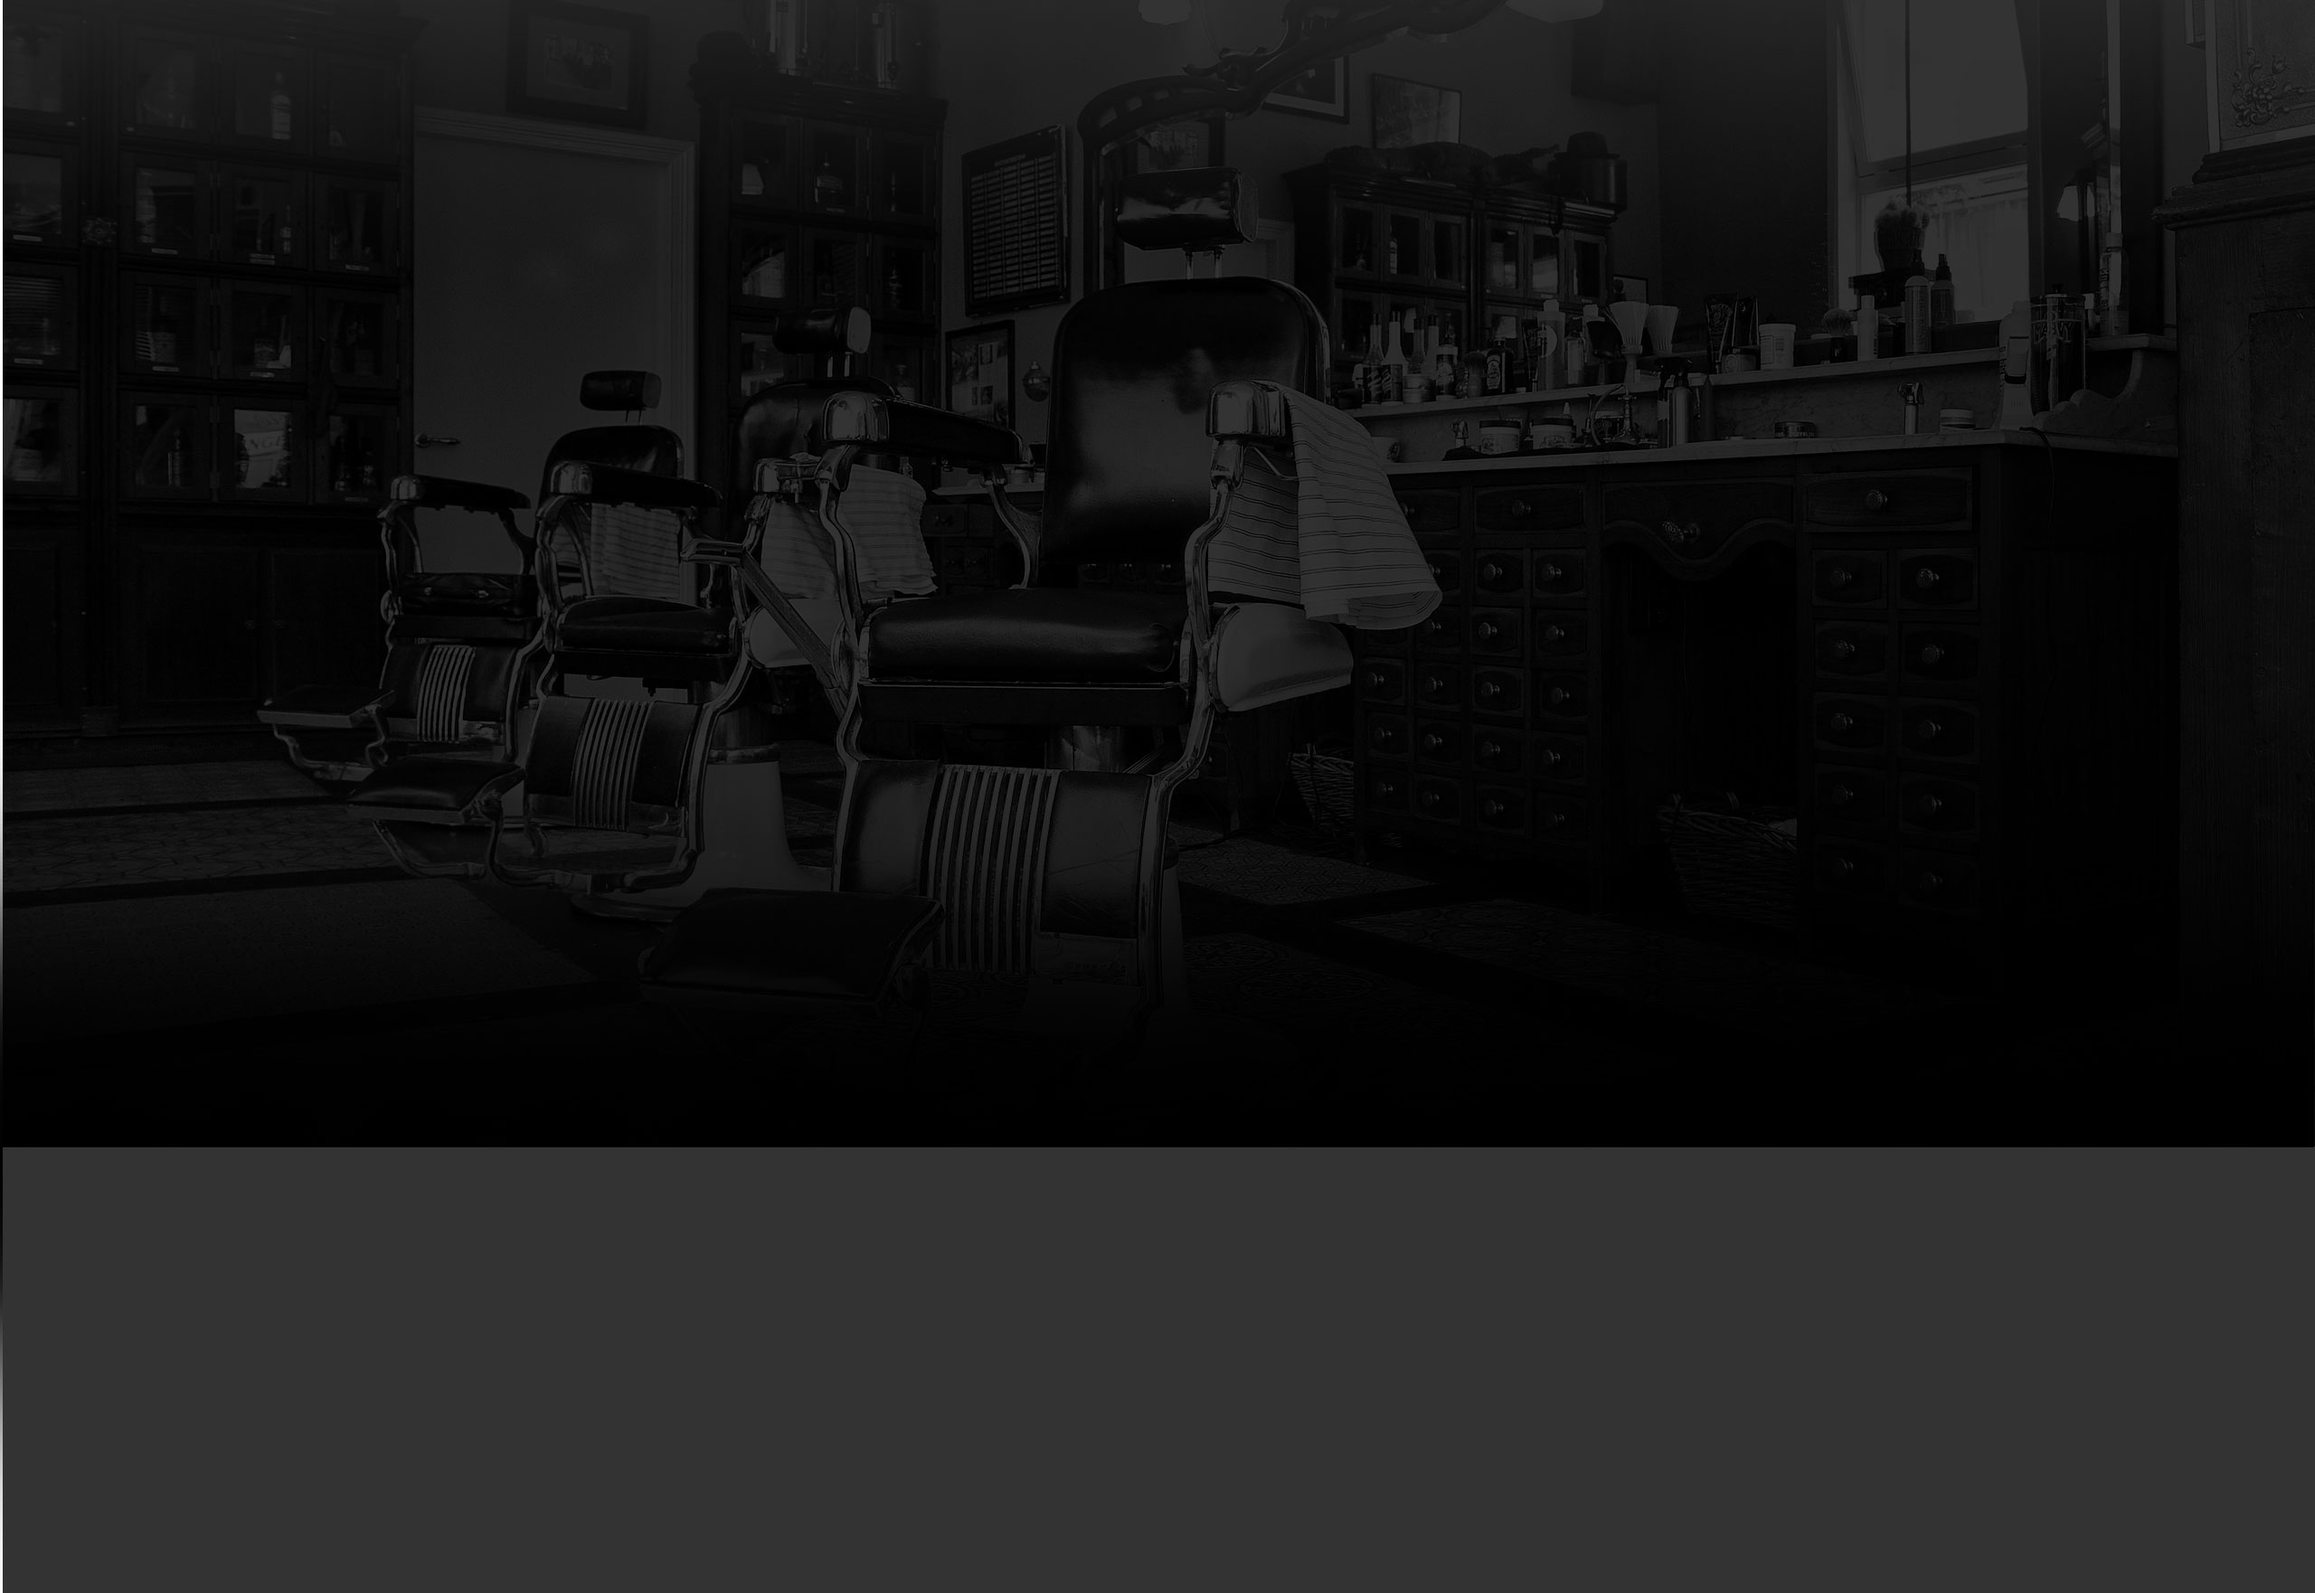
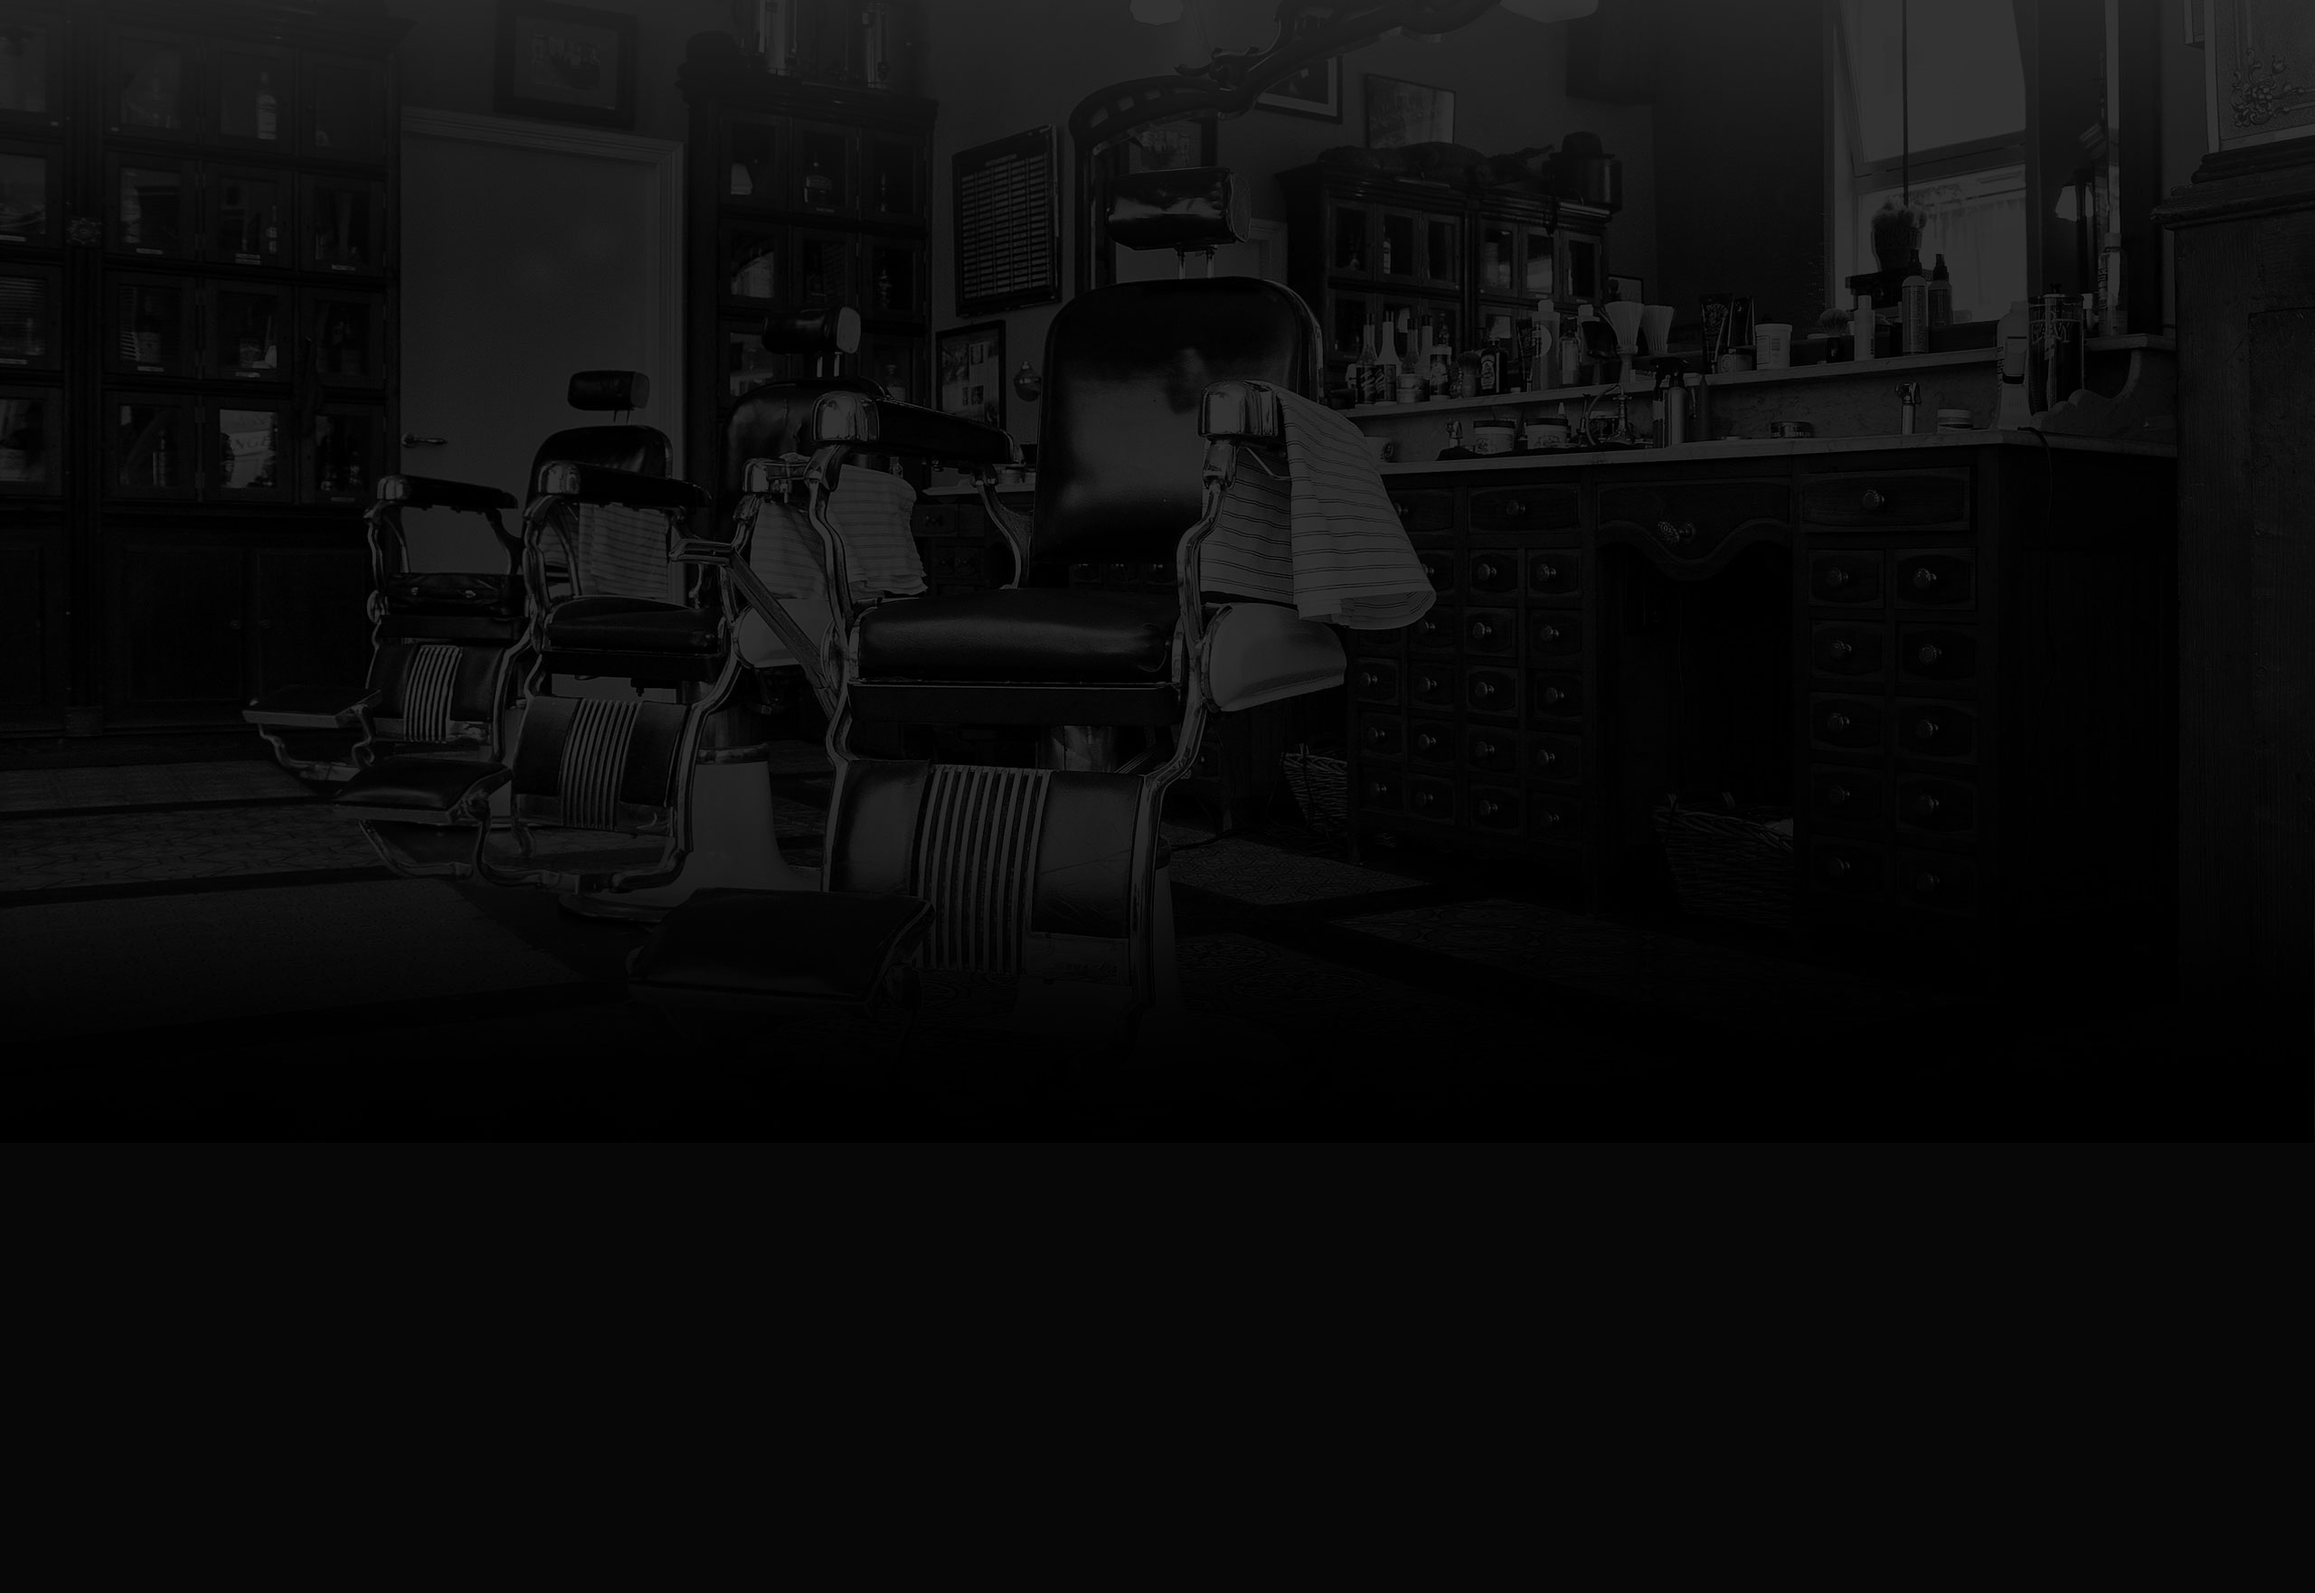
Главная страница барбера добита

diff --git a/css/style.css b/css/style.css
@@ -14,7 +14,10 @@ body {
     display: flex;
     flex-direction: column;
 
+    
+    background: url(../images/body-bg-60.jpg) #070707;
     background-repeat: no-repeat;
+    background-position-x: center;
 }
 
 .container {
@@ -22,8 +25,6 @@ body {
     margin: 0 auto;
     padding-right: 10px;
     padding-left: 10px;
-
-    background-color: #1f1f1f;
 }
 
 .btn {
@@ -51,11 +52,21 @@ body {
     cursor: pointer;
 }
 
+a {
+    color: white;
+    text-decoration: none;
+}
+
+.mainHeader {
+    width: 100%;
+    margin-bottom: 58px;
+    background-color: black;
+}
+
 .mainHeaderContainer {
     display: flex;
 
     min-height: 72px;
-    margin-bottom: 58px;
 
     background-color: black;
 
@@ -86,6 +97,10 @@ body {
     padding-right: 20px;
     padding-bottom: 27px;
     padding-left: 20px;
+}
+
+.mainHeader a:hover {
+    background-color: #242424;
 }
 
 .mainNavigator ul li:first-of-type {
@@ -120,6 +135,12 @@ body {
     content: "";
 
     background-image: url(../images/.icon-login.png);
+    
+    opacity: 0.3;
+}
+
+.userBlock .login:hover:before {
+    opacity: 1;
 }
 
 .indexLogo {
@@ -185,7 +206,14 @@ body {
     display: flex;
 
     margin-bottom: 34px;
-    padding: 50px 80px 54px;
+    padding: 50px 80px 63px;
+    
+    background: url(../images/index-content-bg.jpg) white;
+    color: black;
+}
+
+.indexContent:last-of-type {
+    margin-bottom: 64px;
 }
 
 .indexContent .indexContentLeft {
@@ -232,6 +260,7 @@ body {
 .indexContent .indexContentRight {
     width: 380px;
     margin-left: 90px;
+    margin-bottom: 
 }
 
 .indexContentRight p {
@@ -265,7 +294,7 @@ body {
 }
 
 .indexContentLeft .address {
-    margin-bottom: 25px;
+    margin-bottom: 27px;
 }
 
 .indexContentLeft .working-time {
@@ -302,3 +331,85 @@ body {
     margin-top: 15px;
     width: 100%;
 }
+
+.mainFooter, 
+.mainFooterContainer {
+    background: url(../images/footer-bg.png) #222222;
+}
+
+.mainFooterContainer {
+    display: flex;
+    justify-content: space-between;
+    padding-top: 57px;
+    padding-bottom: 38px;
+}
+
+.mainFooterContainer p {
+    margin: 0;
+    font-family: "PT Sans Narrow", sans-serif;
+    font-size: 14px;
+    font-weight: bold;
+    text-transform: uppercase;
+}
+
+.mainFooterContainer .footerContacts {
+    width: 310px;
+    font-family: "PT Sans Narrow", sans-serif;
+    font-size: 14px;
+    font-weight: bold;
+    text-transform: uppercase;
+    line-height: 24px;
+    position: relative;
+}
+
+.mainFooterContainer .footerSocial {
+    display: flex;
+    flex-wrap: wrap;
+    justify-content: center;
+    width: 300px;
+    position: relative;
+}
+
+.mainFooterContainer .footerSocial p {
+    text-align: center;
+    margin-bottom: 20px;
+    width: 100%;
+}
+
+.footerSocial .socialBtn {
+    width: 43px;
+    height: 43px;
+    background-color: black;
+    background-image: url(../images/social-logos.png);
+    background-position: center;
+    background-repeat: no-repeat;
+}
+
+.footerSocial .socialBtn:hover {
+    filter: invert(100%);
+}
+
+.footerSocial .socialBtnVk {
+    background-position-x: 8px;
+}
+
+.footerSocial .socialBtnFb {
+    margin: 0 6px;
+    background-position-x: -40px;
+}
+
+.footerSocial .socialBtnInst {
+    background-position-x: -89px;
+}
+
+.mainFooterContainer .footerCopyright {
+    text-align: right;
+    width: 310px;
+    position: relative;
+}
+
+.mainFooterContainer .footerCopyright p {
+    margin-right: 31px;
+    margin-bottom: 20px;
+}
+

diff --git a/index.html b/index.html
@@ -78,7 +78,7 @@
                 <div class="gallery">
                     <figure class="galleryContent">
                         <!-- Контейнер содержательных картинок -->
-                        <img src="img/photo-1.jpg" width="286" height="164" alt="Фото 1">
+                        <img src="images/gallery.jpg" width="286" height="164" alt="Фото 1">
                     </figure>
                     <button class="btn galleryPrev" type="button">Назад</button>
                     <!-- делаем кнопку, а не ссылку, т.к. не будет перехода, а будет листание -->
@@ -124,15 +124,15 @@
         <div class="container mainFooterContainer">
             <section class="footerContacts">
                 <!-- смысловые блоки, поэтому секции. Хотя обычно все ставят div -->
-                Барбершоп «Бородинский»<br> Адрес: г. Санкт-Петербург, Б. Конюшенная, д. 19/8<br>
+                Барбершоп «Бородинский»<br>АДРЕС: Г. САНКТ-ПЕТЕРБУРГ, УЛ. Б. КОНЮШЕННАЯ, Д. 19/8<br>
                 <a href="#">Как нас найти?</a><br> Телефон: +7 (812) 666-02-66
             </section>
 
             <section class="footerSocial">
                 <p>Давайте дружить!</p>
-                <a class="socialBtn socialBtnVk" href="#">ВКонтакте</a>
-                <a class="socialBtn socialBtnFb" href="#">Фейсбук</a>
-                <a class="socialBtn socialBtnInst" href="#">Инстаграм</a>
+                <a class="socialBtn socialBtnVk" href="#"></a>
+                <a class="socialBtn socialBtnFb" href="#"></a>
+                <a class="socialBtn socialBtnInst" href="#"></a>
             </section>
 
             <section class="footerCopyright">
